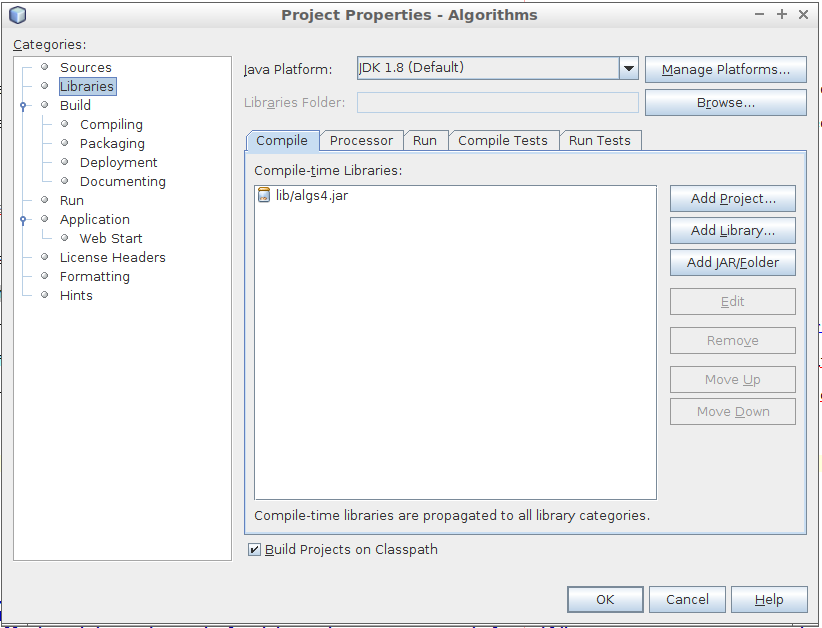
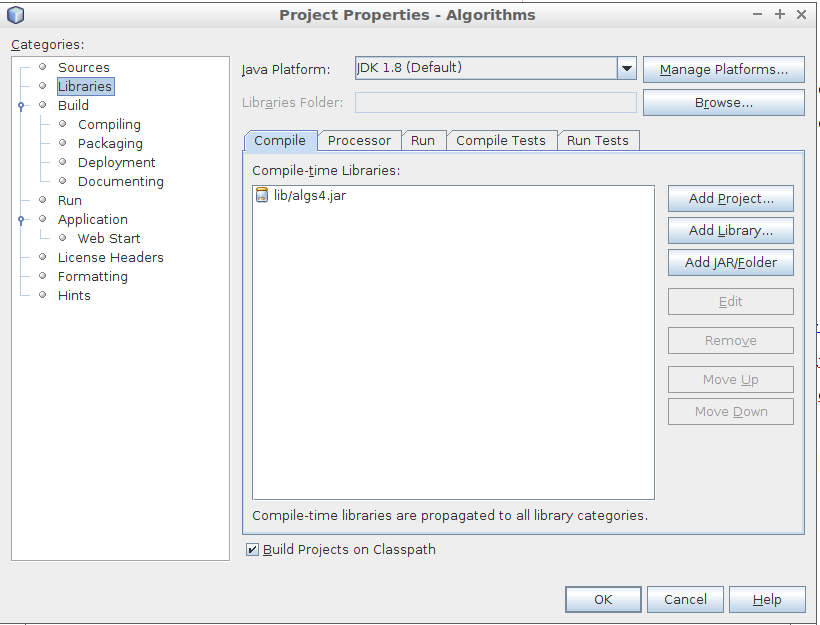
Update README.

diff --git a/README.md b/README.md
@@ -47,7 +47,7 @@ To get more information about its code, access the section [Code](https://algs4.
 
 Obs.: When using another IDE than Netbeans, see the instructions of the IDE choosen on how to add the library to the classpath.
 
-With [Netbeans IDE 8.2](https://netbeans.org/) the proceed is very simple:
+With [Netbeans IDE 8.2](https://netbeans.org/) the process is very simple:
 
 1. In the tab Projects, click in the project folder with the mouse right button at __Properties__:
 
